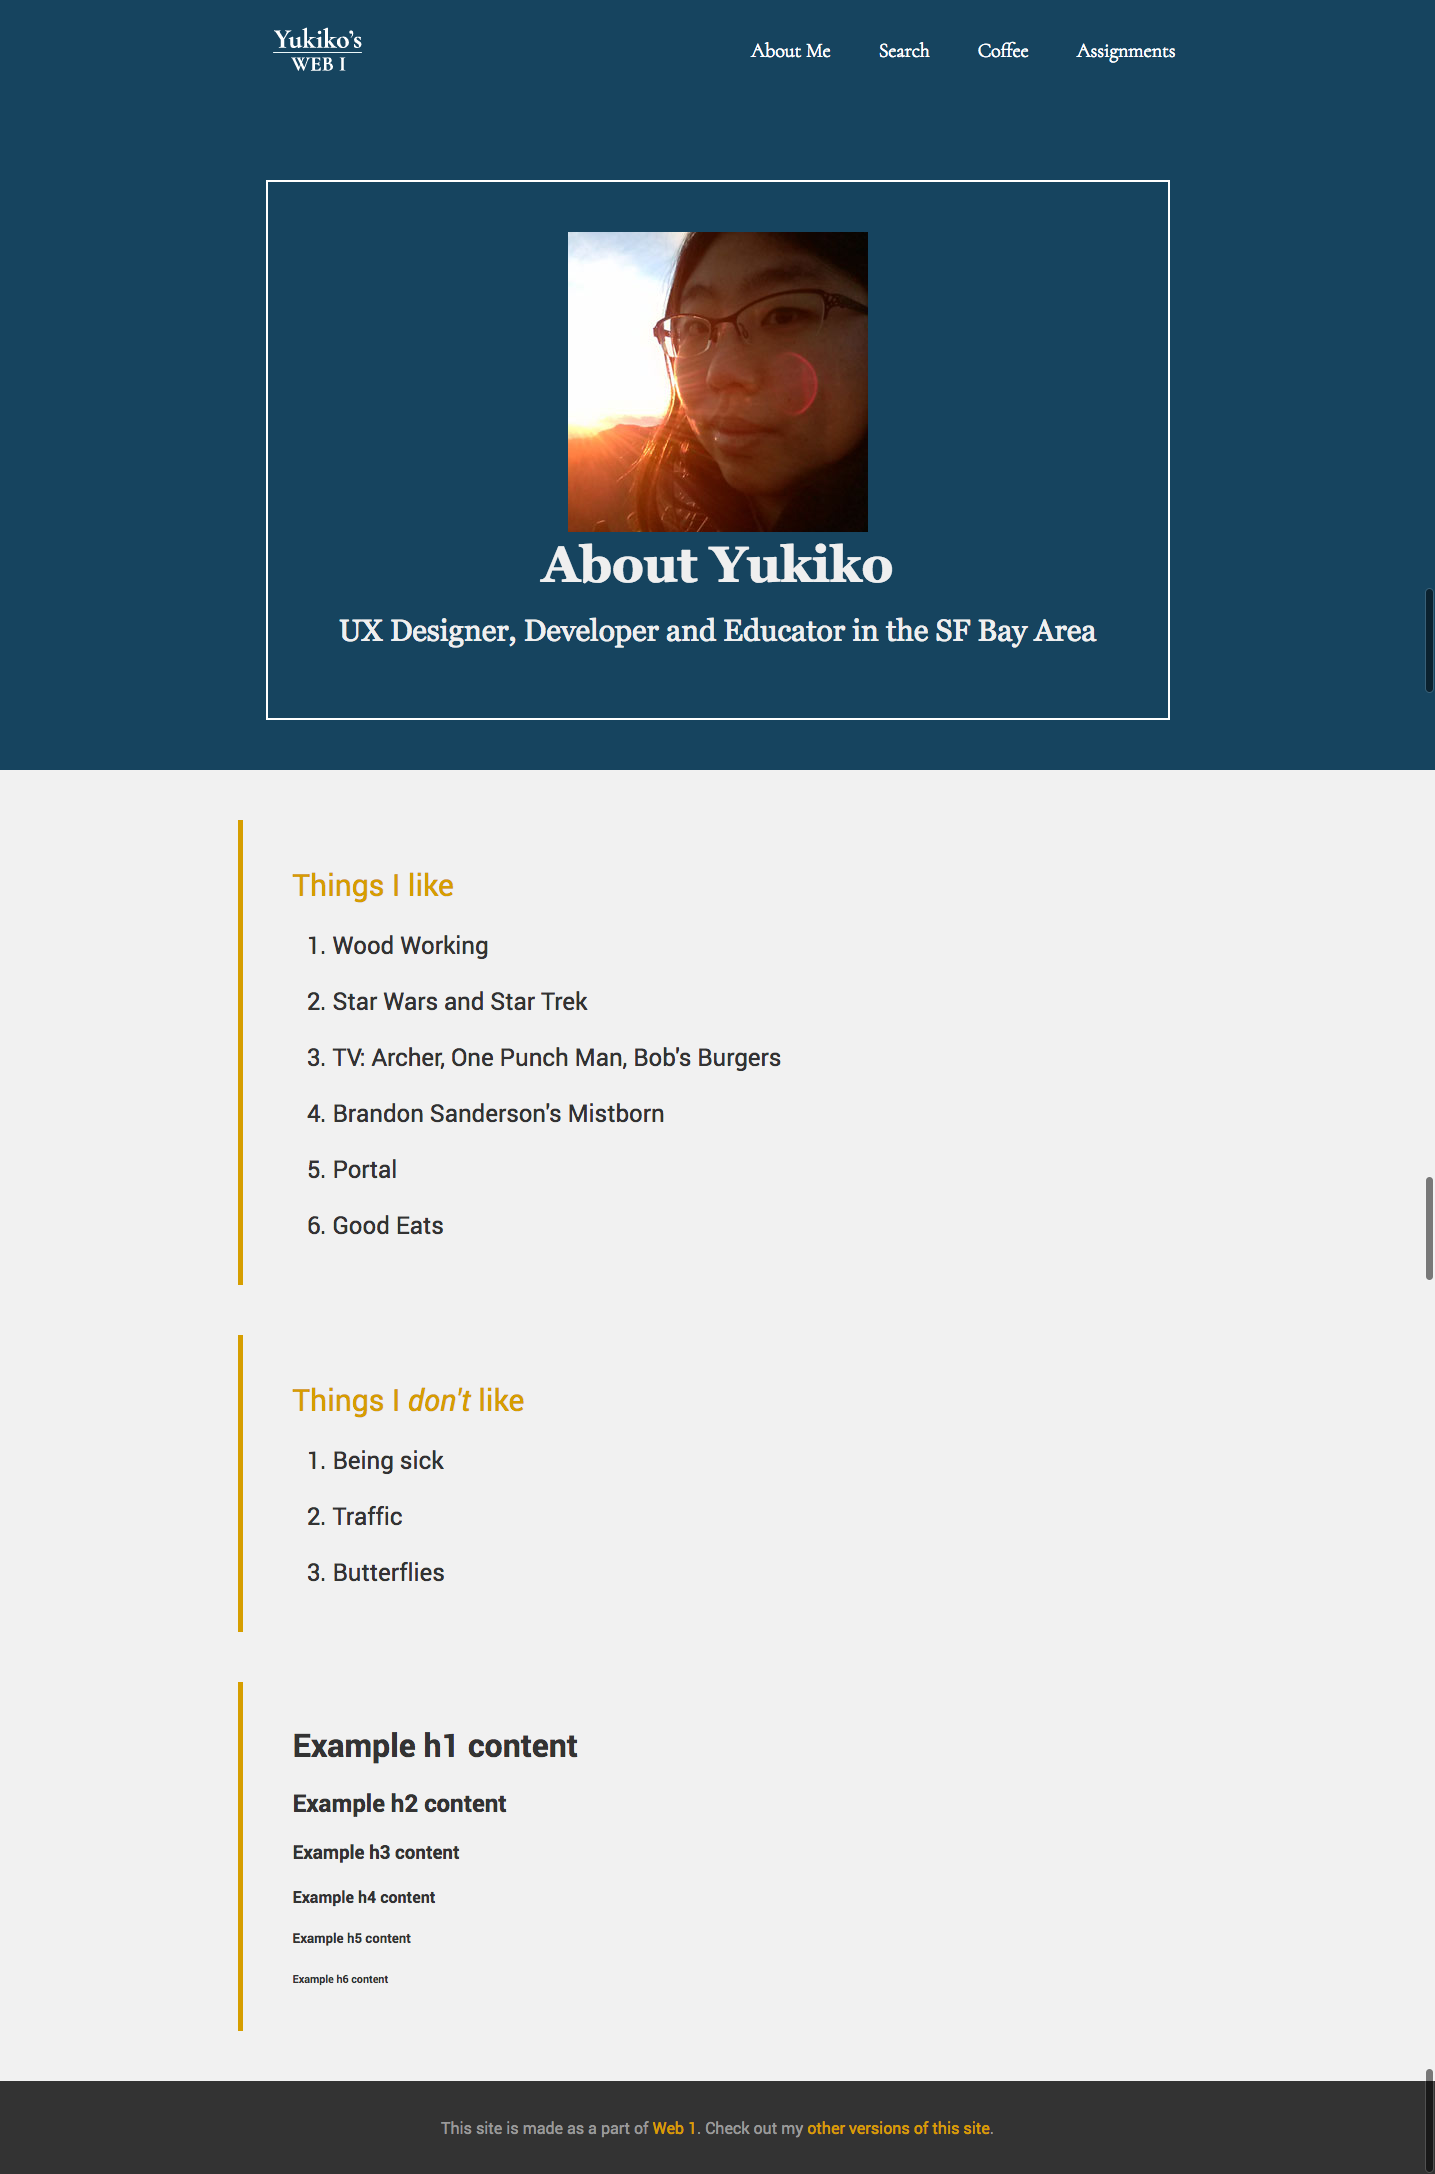
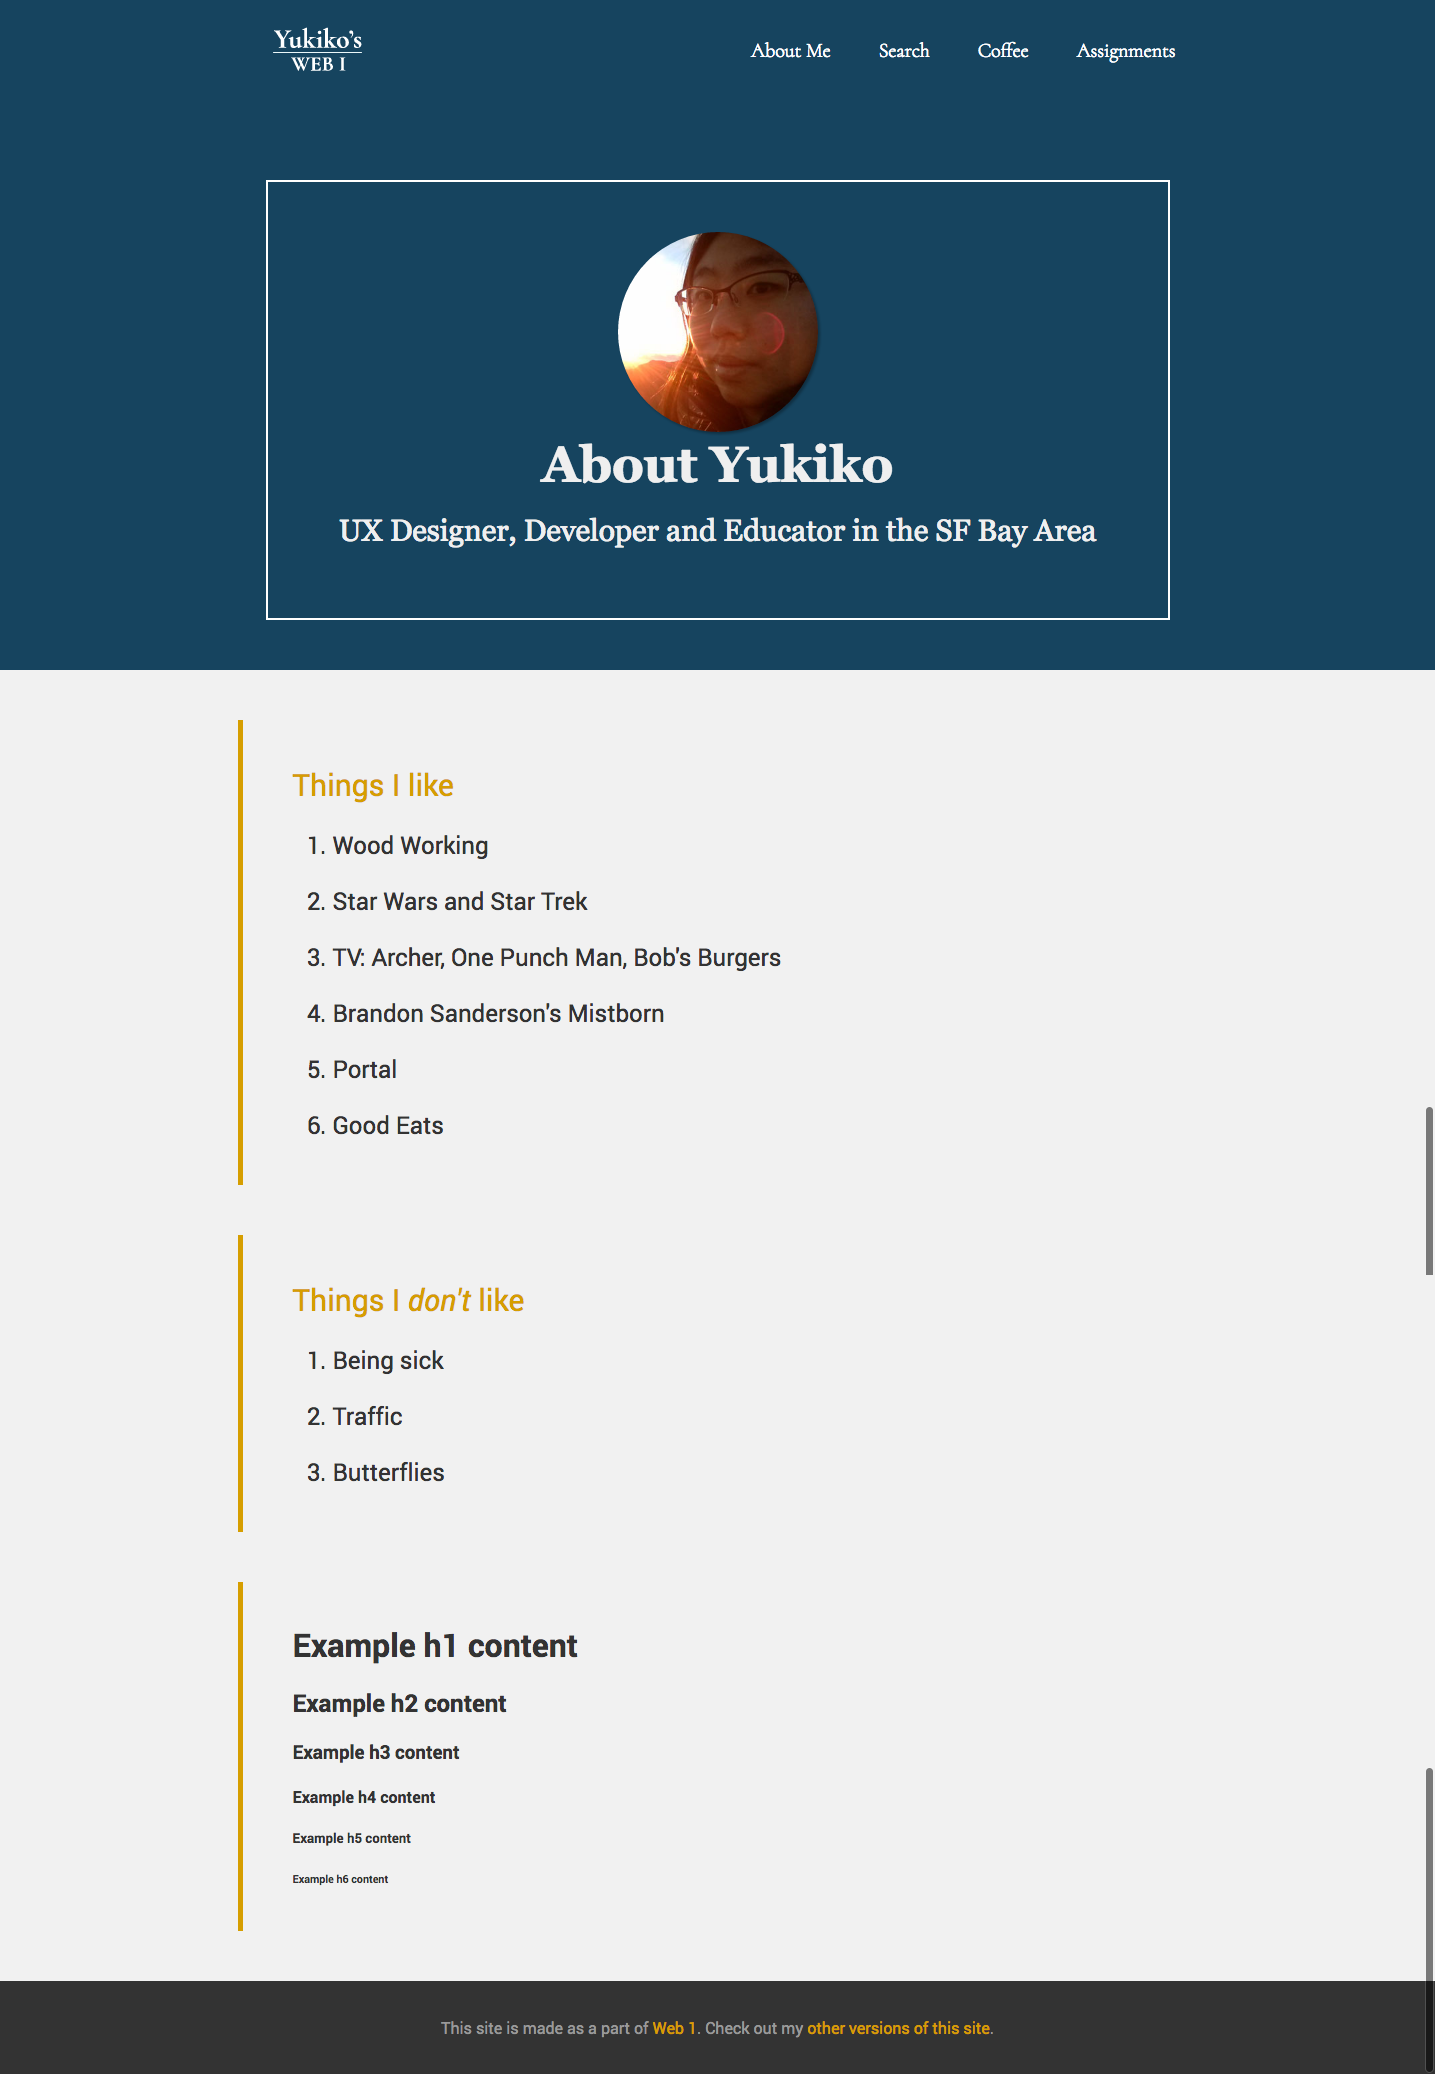
turning in

diff --git a/instructions/assignment-5/index.html b/instructions/assignment-5/index.html
@@ -21,18 +21,21 @@ Practice simple layout concepts by updating the navigation layout on all pages. 
 1. Update the Home page
   - Add the styles to the cards
 1. Update the About page
+  - add the photo style so it's rounded with a drop shadow
   - update the list styles and class names so they have a yellow left border
 1. Turn in
 
 ## Requirement Checklist:
 - Can you access the assignment mockups online? `https://{username}.github.io/web1/assignment-5`
 - Are the main navigation links aligned to the right and logo to the left on all pages?
+- Do the main navigation links have a rounded border on hover
 - Is the web font used in the navigation, hero titles, and card titles?
 - Check the home page:
   - Are the 3 cards on the same line horizontally?
   - Do the 3 cards have a lighter gray description?
   - Do the cards get bigger on hover?
 - Check the about page:
+  - Is the profile photo round?
   - Do the lists have a yellow border on the left?
   - Are the list titles in yellow?
   - Are the list items large and dark grey?
